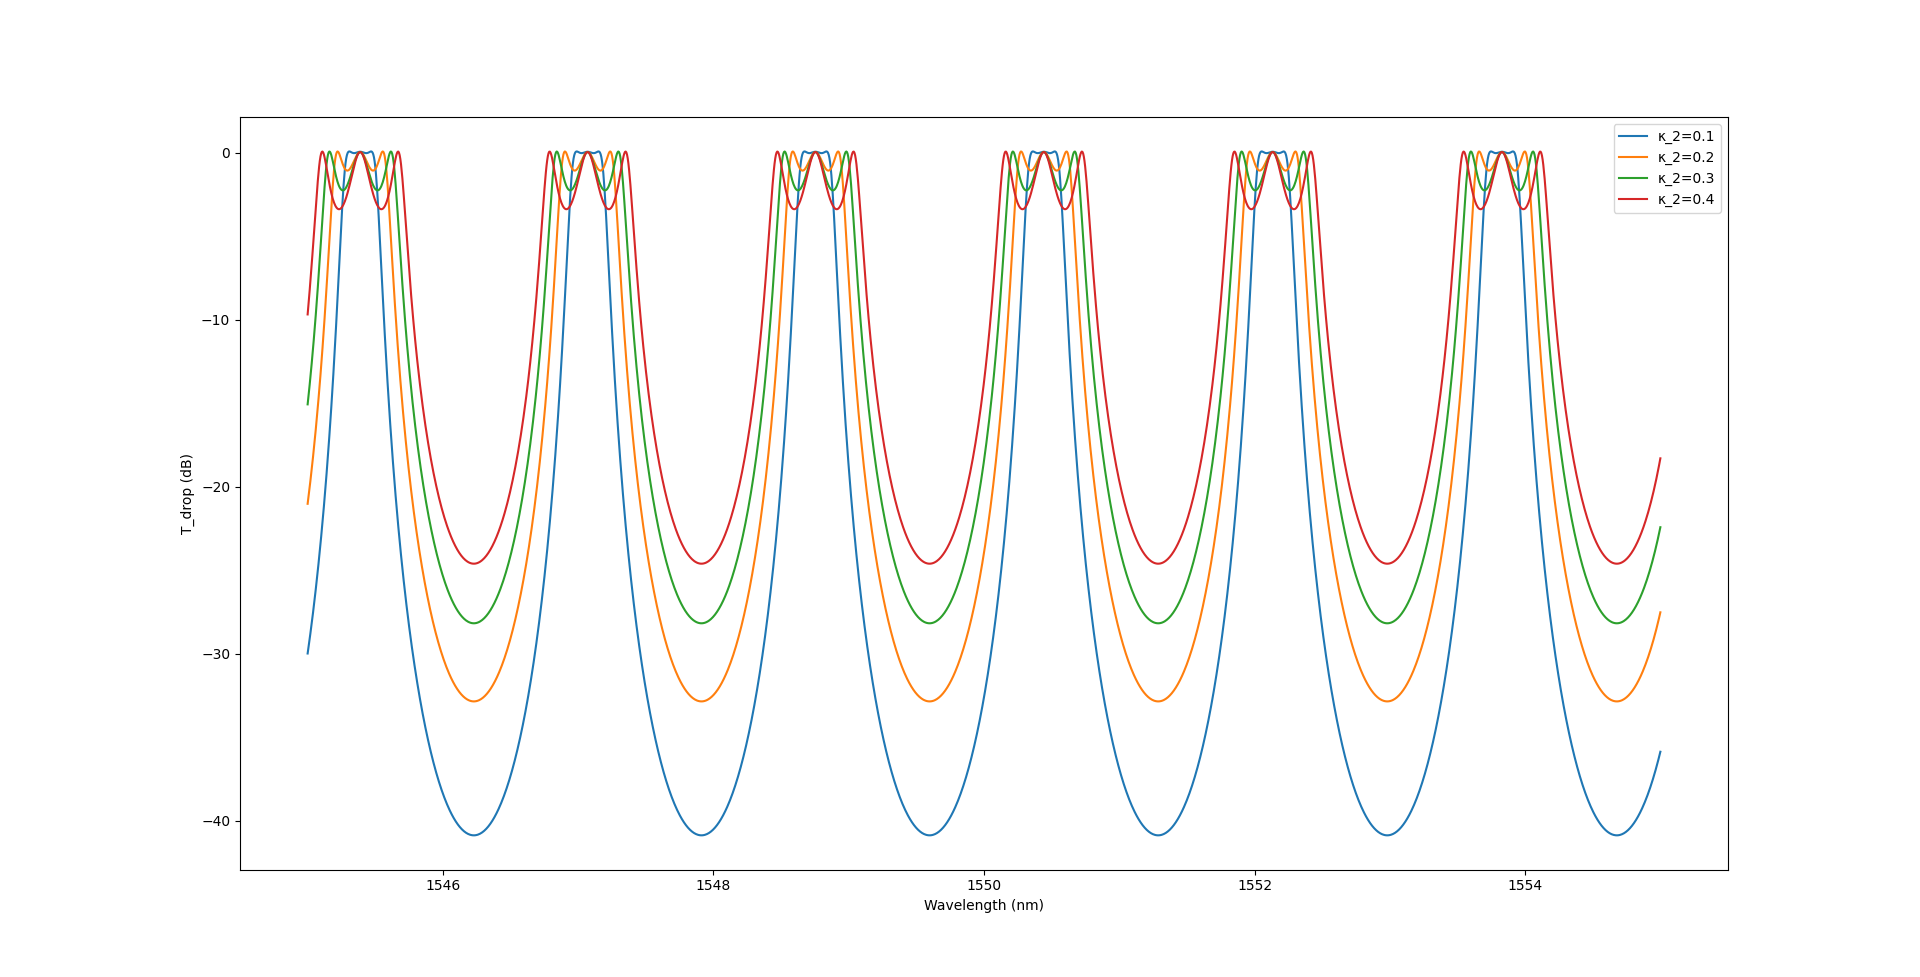
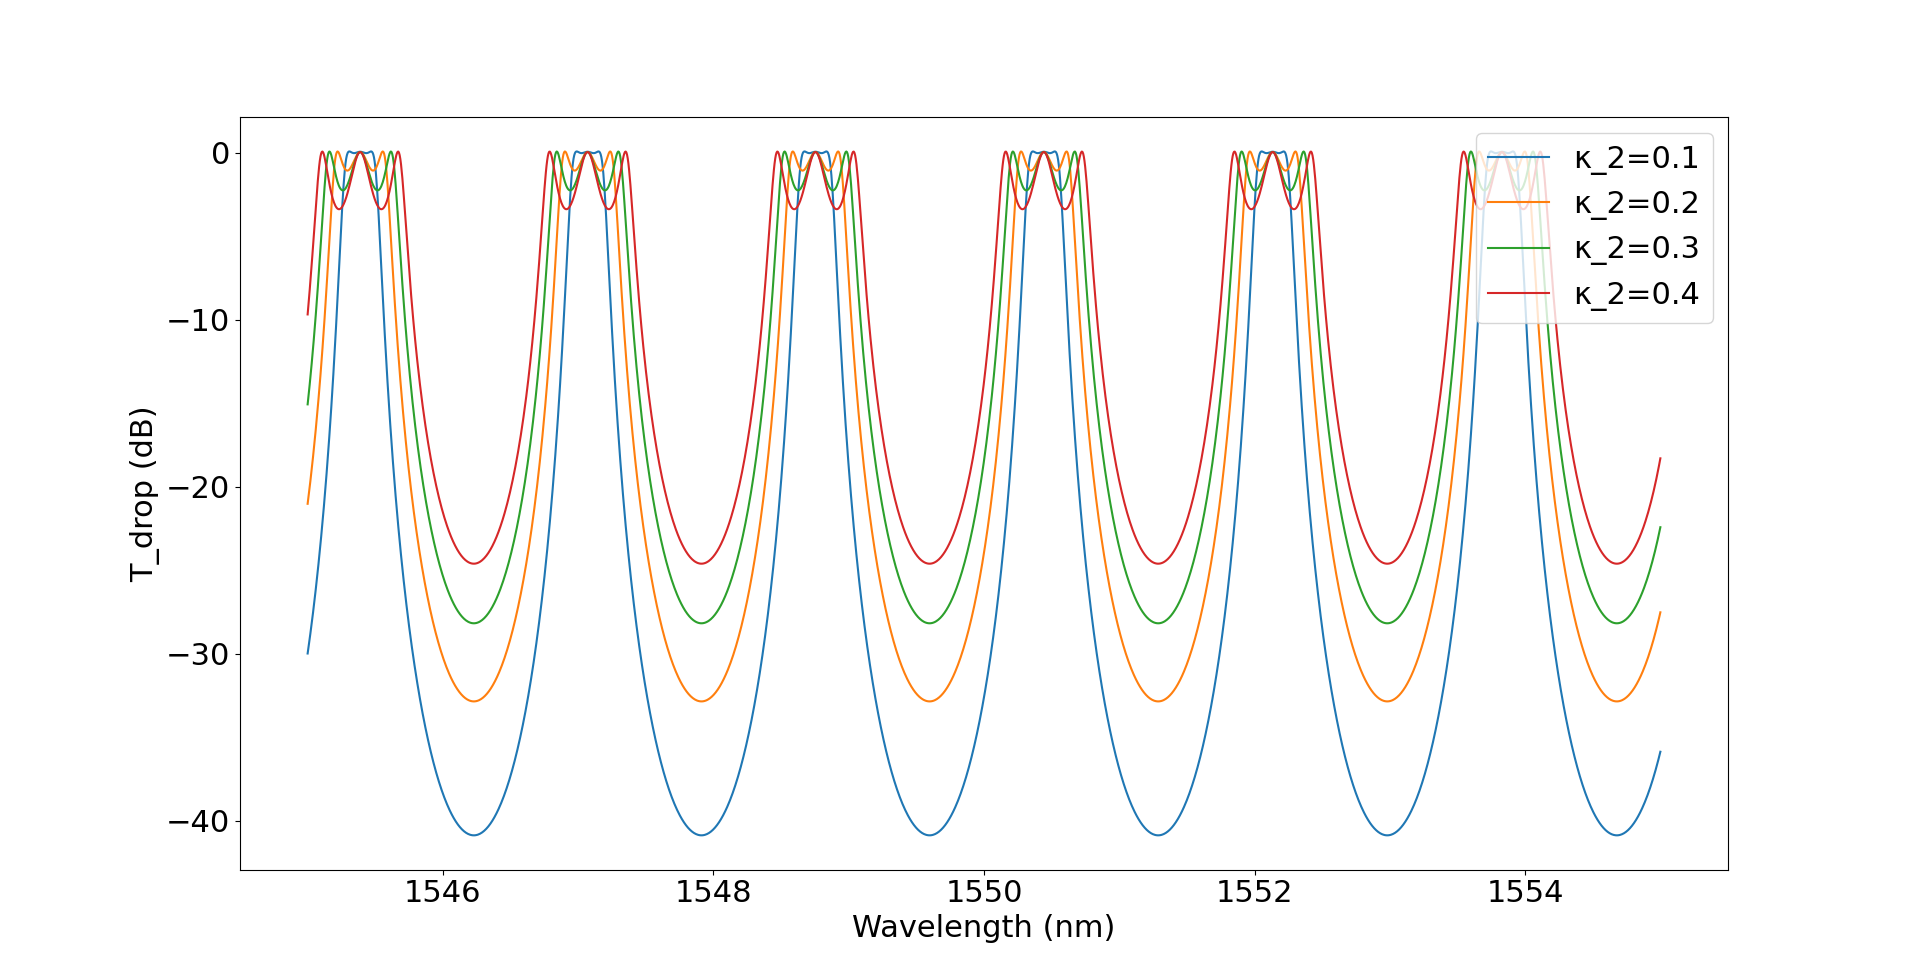
updated script. Debugging some Lumerical-sided errors

diff --git a/CROW_Filters_thirdorder.py b/CROW_Filters_thirdorder.py
@@ -125,36 +125,38 @@ FSR=c/(ng[0]*L_rt)
 print('FSR={} GHz'.format(np.round(FSR*1e-9)))
 
 ##Loop space for varying kappa
-kappa1=0.5
+kappa1=0.6
 kappa2=0.1
-for kappa1 in np.linspace(0.1,0.5,4):
-    kappaList=np.array([kappa1,kappa2,kappa2,kappa1])
-    ## Transfer matrix elements
-    C=[]
-    S=[]
-    for i in range(0,4):
-        C.append(cmath.sqrt(((1-kappaList[i])*(1-gamma))))
-        S.append(1/1j*cmath.sqrt(((1-gamma*1j)*kappaList[i])))
-    xi=np.multiply(np.exp(alpha*L_rt/2),np.exp(-1j*beta*L_rt))
-    ## Compute transmission
-    E_drop=S[0]*S[1]*S[2]*S[3]*np.power(xi,1.5)/(1-C[0]*C[1]*xi-C[1]*C[2]*xi-C[2]*C[3]*xi+C[0]*C[2]*np.power(xi,2)+C[1]*C[3]*np.power(xi,2)-C[0]*C[3]*np.power(xi,3)+\
-        C[0]*C[1]*C[2]*C[3]*np.power(xi,2))
-    T_drop=np.power(abs(E_drop),2)
+#for kappa2 in np.linspace(0.1,0.5,4):
+kappaList=np.array([kappa1,kappa2,kappa2,kappa1])
+## Transfer matrix elements
+C=[]
+S=[]
+for i in range(0,4):
+    C.append(cmath.sqrt(((1-kappaList[i])*(1-gamma))))
+    S.append(1/1j*cmath.sqrt(((1-gamma*1j)*kappaList[i])))
+xi=np.multiply(np.exp(alpha*L_rt/2),np.exp(-1j*beta*L_rt))
+## Compute transmission
+E_drop=S[0]*S[1]*S[2]*S[3]*np.power(xi,1.5)/(1-C[0]*C[1]*xi-C[1]*C[2]*xi-C[2]*C[3]*xi+C[0]*C[2]*np.power(xi,2)+C[1]*C[3]*np.power(xi,2)-C[0]*C[3]*np.power(xi,3)+\
+    C[0]*C[1]*C[2]*C[3]*np.power(xi,2))
+T_drop=np.power(abs(E_drop),2)
 
-    E_thru=(C[0]-C[1]*xi-C[0]*C[1]*C[2]*xi+C[2]*np.power(xi,2)-C[0]*C[2]*C[3]*xi+C[1]*C[2]*C[3]*np.power(xi,2)+C[0]*C[1]*C[3]*np.power(xi,2)-C[3]*np.power(xi,3))\
-        /(1-C[0]*C[1]*xi-C[1]*C[2]*xi-C[2]*C[3]*xi+C[0]*C[2]*np.power(xi,2)+C[1]*C[3]*np.power(xi,2)-C[0]*C[3]*np.power(xi,3)+C[0]*C[1]*C[2]*C[3]*np.power(xi,2))
-    T_thru=np.power(abs(E_thru),2)
-    ## Data in dB
-    T_drop_dB=10*np.log10(T_drop)
-    T_thru_dB=10*np.log10(T_thru)
+E_thru=(C[0]-C[1]*xi-C[0]*C[1]*C[2]*xi+C[2]*np.power(xi,2)-C[0]*C[2]*C[3]*xi+C[1]*C[2]*C[3]*np.power(xi,2)+C[0]*C[1]*C[3]*np.power(xi,2)-C[3]*np.power(xi,3))\
+    /(1-C[0]*C[1]*xi-C[1]*C[2]*xi-C[2]*C[3]*xi+C[0]*C[2]*np.power(xi,2)+C[1]*C[3]*np.power(xi,2)-C[0]*C[3]*np.power(xi,3)+C[0]*C[1]*C[2]*C[3]*np.power(xi,2))
+T_thru=np.power(abs(E_thru),2)
+## Data in dB
+T_drop_dB=10*np.log10(T_drop)
+T_thru_dB=10*np.log10(T_thru)
 
-    #Plot
-    #plt.plot(lambda0*1e9,T_thru_dB)
-    plt.plot(lambda0*1e9,T_drop_dB)
-    #plt.legend(['T_thru','T_drop'])
-    plt.xlabel('Wavelength (nm)')
-    plt.ylabel('T_drop (dB)')
-plt.legend(['\u03BA_1=0.1','\u03BA_1=0.2','\u03BA_1=0.3','\u03BA_1=0.4'])
+#Plot
+plt.rcParams.update({'font.size': 22})
+plt.plot(lambda0*1e9,T_thru_dB)
+
+plt.plot(lambda0*1e9,T_drop_dB)
+plt.legend(['T_thru','T_drop'])
+plt.xlabel('Wavelength (nm)')
+plt.ylabel('Transmission (dB)')
+#plt.legend(['\u03BA_2=0.1','\u03BA_2=0.2','\u03BA_2=0.3','\u03BA_2=0.4'],loc="upper right")
 plt.show()
 
 """

diff --git a/CROW_Filters_secondorder.py b/CROW_Filters_secondorder.py
@@ -127,8 +127,8 @@ print('FSR={} GHz'.format(np.round(FSR*1e-9)))
 ##Loop space for varying kappa
 kappa1=0.5
 kappa2=0.1
-kappa3=0.1
-for kappa1 in np.linspace(0.1,0.5,4):
+kappa3=0.5
+for kappa2 in np.linspace(0.1,0.5,4):
     kappaList=np.array([kappa1,kappa2,kappa3])
     ## Transfer matrix elements
     C=[]
@@ -149,11 +149,12 @@ for kappa1 in np.linspace(0.1,0.5,4):
 
     #Plot
     #plt.plot(lambda0*1e9,T_thru_dB)
+    plt.rcParams.update({'font.size': 22})
     plt.plot(lambda0*1e9,T_drop_dB)
     #plt.legend(['T_thru','T_drop'])
     plt.xlabel('Wavelength (nm)')
     plt.ylabel('T_drop (dB)')
-plt.legend(['\u03BA_1=0.1','\u03BA_1=0.2','\u03BA_1=0.3','\u03BA_1=0.4'])
+plt.legend(['\u03BA_2=0.1','\u03BA_2=0.2','\u03BA_2=0.3','\u03BA_2=0.4'],loc="upper right")
 plt.show()
 
 """
